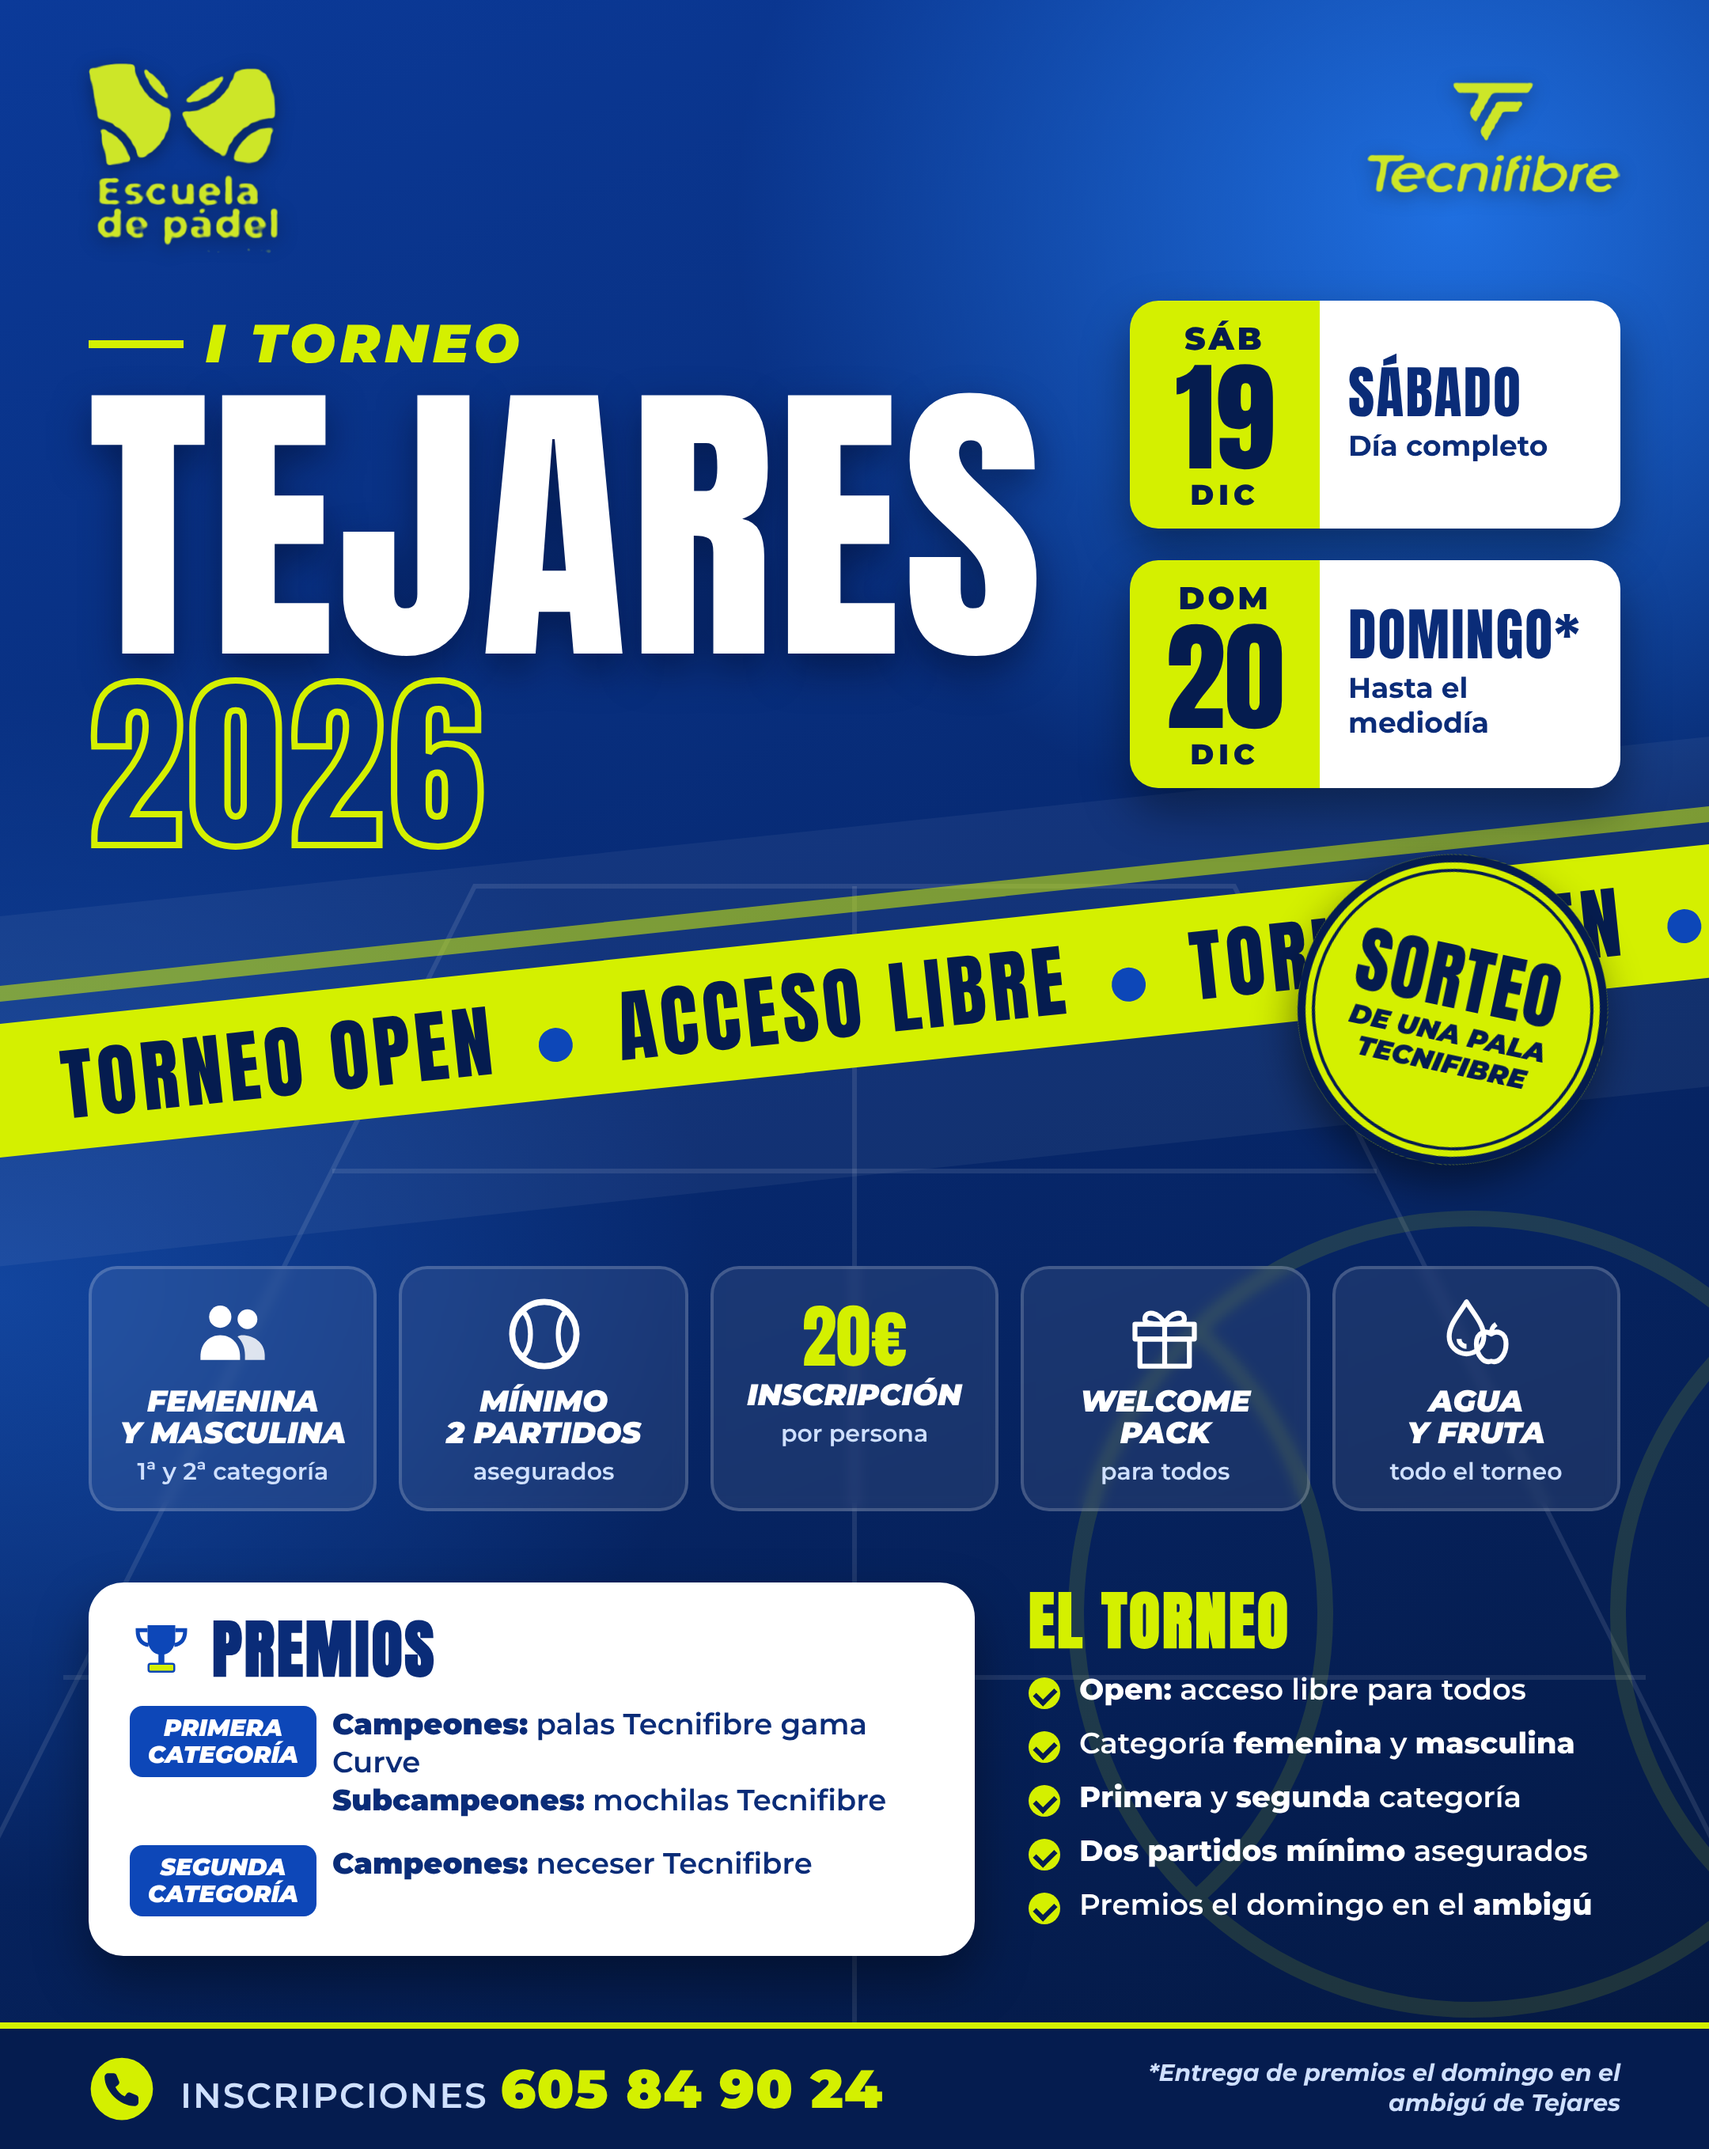
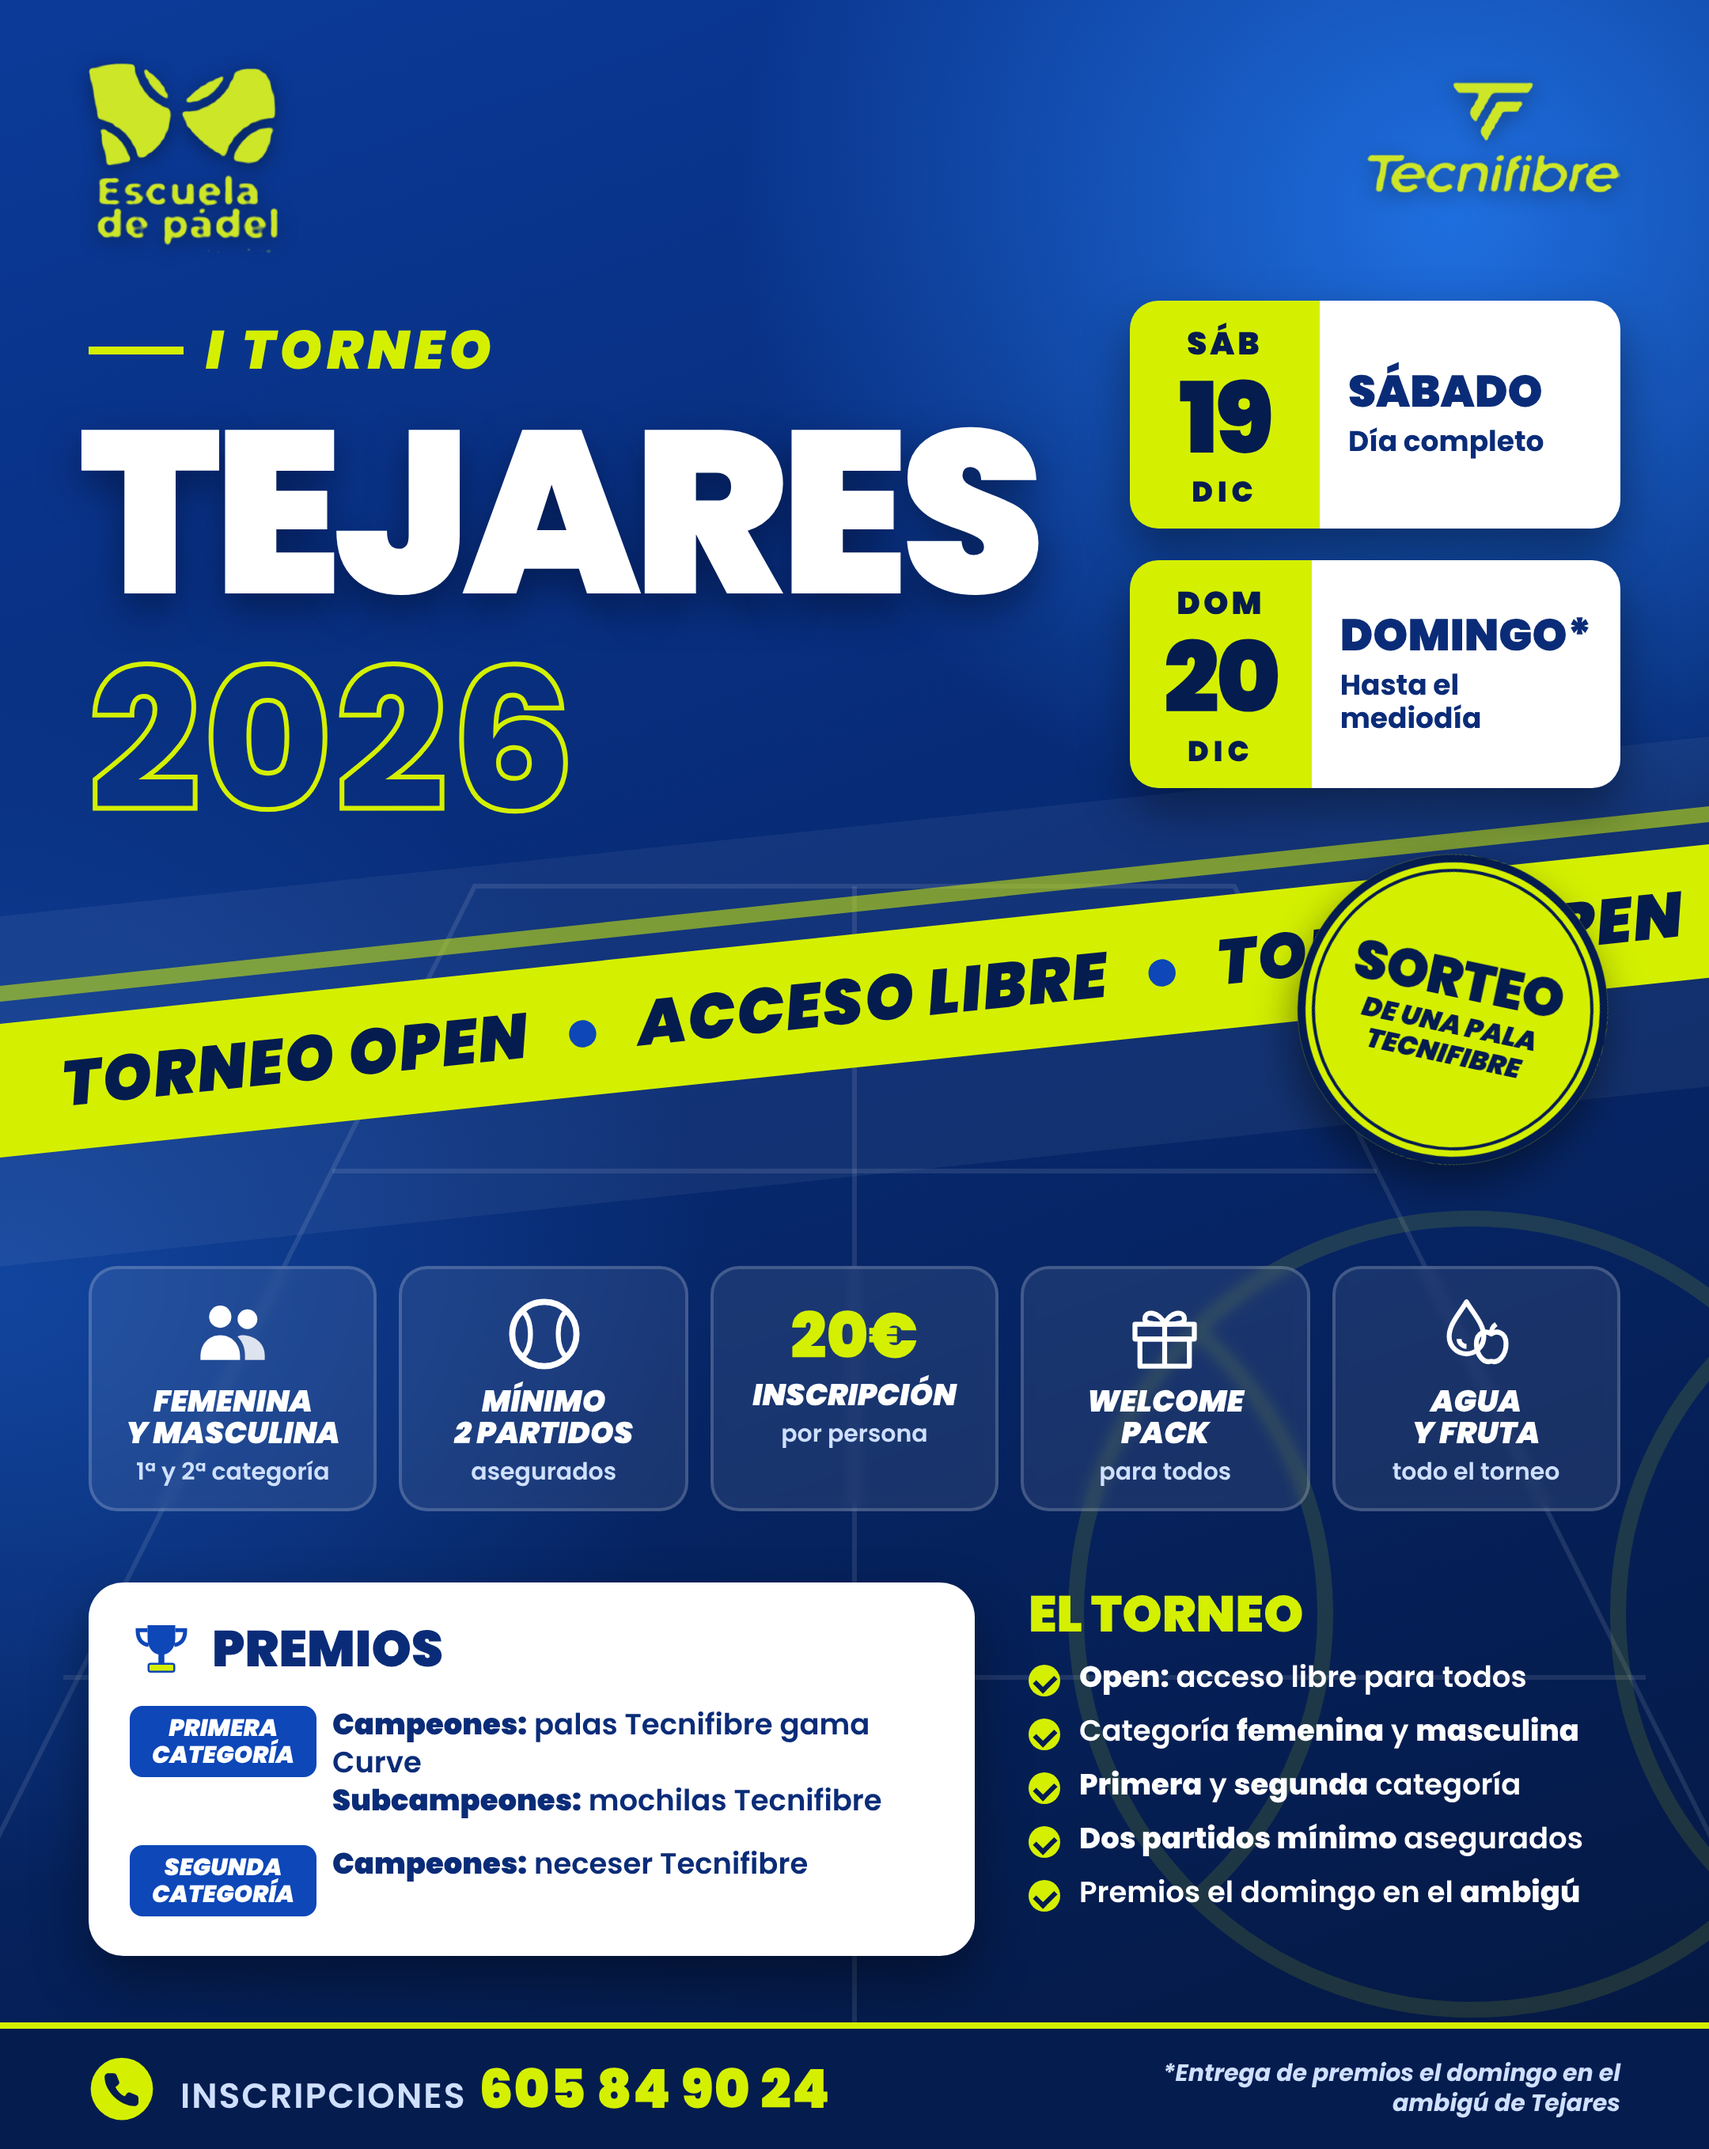
Cartel Tejares: usar tipografía Poppins en todo el cartel
Claude-Session: https://claude.ai/code/session_0171j4B3Eg9Uj72AQuUNZk2r

diff --git a/carteles/torneo_tejares_2026/cartel.html b/carteles/torneo_tejares_2026/cartel.html
@@ -3,7 +3,7 @@
 <head>
 <meta charset="utf-8">
 <title>I Torneo Tejares 2026</title>
-<link href="https://fonts.googleapis.com/css2?family=Anton&family=Montserrat:ital,wght@0,500;0,600;0,700;0,800;0,900;1,700;1,800;1,900&display=swap" rel="stylesheet">
+<link href="https://fonts.googleapis.com/css2?family=Poppins:ital,wght@0,500;0,600;0,700;0,800;0,900;1,700;1,800;1,900&display=swap" rel="stylesheet">
 <style>
   :root{
     --lima:#d4f000;
@@ -14,7 +14,7 @@
   }
   *{box-sizing:border-box;margin:0;padding:0}
   html,body{background:var(--marino)}
-  body{width:1080px;height:1358px;overflow:hidden;font-family:'Montserrat',sans-serif;color:var(--blanco)}
+  body{width:1080px;height:1358px;overflow:hidden;font-family:'Poppins',sans-serif;color:var(--blanco)}
   .cartel{position:relative;width:1080px;height:1358px;overflow:hidden;
           background:radial-gradient(ellipse 70% 50% at 85% 10%, #1f6fe0 0%, transparent 60%),
                      radial-gradient(ellipse 60% 40% at 0% 60%, #12459e 0%, transparent 70%),
@@ -24,7 +24,7 @@
   .fondo{position:absolute;inset:0}
   .franja{position:absolute;left:-200px;width:1500px;transform:rotate(-6deg);transform-origin:left top}
   .franja.f1{top:668px;height:84px;background:var(--lima);display:flex;align-items:center;white-space:nowrap;overflow:hidden}
-  .franja.f1 span{font-family:'Anton',sans-serif;font-size:50px;letter-spacing:3px;color:var(--marino);padding-left:236px}
+  .franja.f1 span{font-family:'Poppins',sans-serif;font-weight:900;font-style:italic;font-size:40px;letter-spacing:1px;color:var(--marino);padding-left:236px}
   .franja.f1 span em{font-style:normal;color:var(--azul);margin:0 22px}
   .franja.f2{top:644px;height:10px;background:var(--lima);opacity:.55}
   .franja.f3{top:600px;height:220px;background:rgba(255,255,255,.05)}
@@ -38,9 +38,9 @@
   .titulo{position:absolute;left:56px;top:196px}
   .edicion{display:inline-flex;align-items:center;gap:14px;font-weight:900;font-style:italic;font-size:34px;letter-spacing:3px;color:var(--lima);text-transform:uppercase}
   .edicion i{display:inline-block;width:60px;height:5px;background:var(--lima)}
-  .nombre{font-family:'Anton',sans-serif;font-size:190px;line-height:.9;letter-spacing:2px;margin-top:10px;text-shadow:0 10px 24px rgba(0,10,40,.5)}
+  .nombre{font-family:'Poppins',sans-serif;font-weight:900;font-size:146px;line-height:1;letter-spacing:-5px;margin-top:4px;margin-left:-6px;text-shadow:0 10px 24px rgba(0,10,40,.5)}
   .anio{display:flex;align-items:center;gap:20px;margin-top:10px}
-  .anio .num{font-family:'Anton',sans-serif;font-size:120px;line-height:.9;color:transparent;-webkit-text-stroke:4px var(--lima);letter-spacing:4px}
+  .anio .num{font-family:'Poppins',sans-serif;font-weight:800;font-size:124px;line-height:1;color:transparent;-webkit-text-stroke:3px var(--lima);letter-spacing:2px}
   .anio .open{border:3px solid var(--blanco);border-radius:999px;padding:8px 24px;font-weight:900;font-style:italic;font-size:26px;line-height:1.1;text-transform:uppercase}
   .anio .open small{display:block;font-weight:600;font-style:normal;font-size:18px;color:var(--lima);text-transform:none}
 
@@ -49,10 +49,10 @@
   .dia{display:flex;align-items:stretch;width:310px;border-radius:18px;overflow:hidden;box-shadow:0 14px 30px rgba(0,0,0,.4)}
   .dia .izq{width:120px;background:var(--lima);color:var(--marino);text-align:center;padding:12px 0 10px}
   .dia .izq .ds{font-weight:900;font-size:20px;letter-spacing:2px}
-  .dia .izq .n{font-family:'Anton',sans-serif;font-size:76px;line-height:1}
+  .dia .izq .n{font-family:'Poppins',sans-serif;font-weight:900;font-size:62px;line-height:1.05;letter-spacing:-2px}
   .dia .izq .m{font-weight:900;font-size:18px;letter-spacing:3px}
   .dia .der{flex:1;background:var(--blanco);color:var(--marino2);display:flex;flex-direction:column;justify-content:center;padding:0 18px}
-  .dia .der .a{font-family:'Anton',sans-serif;font-size:36px;line-height:1;letter-spacing:1px}
+  .dia .der .a{font-family:'Poppins',sans-serif;font-weight:900;font-size:28px;line-height:1;letter-spacing:0}
   .dia .der .b{font-weight:700;font-size:18px;line-height:1.2;margin-top:6px}
 
   /* Tarjetas de iconos */
@@ -61,11 +61,11 @@
   .tj svg{width:50px;height:50px;display:block;margin:0 auto 8px}
   .tj .t1{font-weight:900;font-style:italic;font-size:19px;line-height:1.05;text-transform:uppercase}
   .tj .t2{font-weight:600;font-size:15px;line-height:1.2;margin-top:5px;color:#cfe0ff}
-  .tj .grande{font-family:'Anton',sans-serif;font-size:44px;line-height:1;color:var(--lima)}
+  .tj .grande{font-family:'Poppins',sans-serif;font-weight:900;font-size:40px;line-height:1.1;color:var(--lima)}
 
   /* Premios (panel blanco) */
   .premios{position:absolute;left:56px;top:1000px;width:560px;height:236px;background:var(--blanco);color:var(--marino2);border-radius:22px;padding:22px 26px;box-shadow:0 16px 34px rgba(0,0,0,.4)}
-  .premios h3{font-family:'Anton',sans-serif;font-size:40px;letter-spacing:1.5px;line-height:1;display:flex;align-items:center;gap:12px}
+  .premios h3{font-family:'Poppins',sans-serif;font-weight:900;font-size:32px;letter-spacing:0;line-height:1;display:flex;align-items:center;gap:12px}
   .premios h3 svg{width:40px;height:40px}
   .cat{margin-top:16px;display:grid;grid-template-columns:118px 1fr;gap:10px;align-items:start}
   .cat .etq{background:var(--azul);color:var(--blanco);font-weight:900;font-style:italic;font-size:15px;line-height:1.1;padding:6px 8px;border-radius:8px;text-align:center;text-transform:uppercase}
@@ -75,7 +75,7 @@
 
   /* Info a la derecha */
   .info{position:absolute;left:650px;right:56px;top:1004px}
-  .info h3{font-family:'Anton',sans-serif;font-size:40px;letter-spacing:1.5px;line-height:1;color:var(--lima)}
+  .info h3{font-family:'Poppins',sans-serif;font-weight:900;font-size:32px;letter-spacing:0;line-height:1;color:var(--lima)}
   .info ul{list-style:none;margin-top:12px}
   .info li{position:relative;padding-left:32px;font-weight:600;font-size:18.5px;line-height:1.3;margin-bottom:10px}
   .info li::before{content:'';position:absolute;left:0;top:4px;width:20px;height:20px;border-radius:50%;background:var(--lima)}
@@ -86,7 +86,7 @@
   .sorteo{position:absolute;right:64px;top:540px;width:196px;height:196px;border-radius:50%;background:var(--lima);color:var(--marino);
           display:flex;flex-direction:column;align-items:center;justify-content:center;text-align:center;transform:rotate(12deg);
           box-shadow:0 12px 26px rgba(0,0,0,.45), inset 0 0 0 5px var(--marino), inset 0 0 0 9px var(--lima), inset 0 0 0 11px var(--marino)}
-  .sorteo .s1{font-family:'Anton',sans-serif;font-size:46px;line-height:1;letter-spacing:1px}
+  .sorteo .s1{font-family:'Poppins',sans-serif;font-weight:900;font-size:34px;line-height:1;letter-spacing:-.5px}
   .sorteo .s2{font-weight:900;font-style:italic;font-size:17px;line-height:1.1;margin-top:3px;text-transform:uppercase}
 
   /* Pie */
